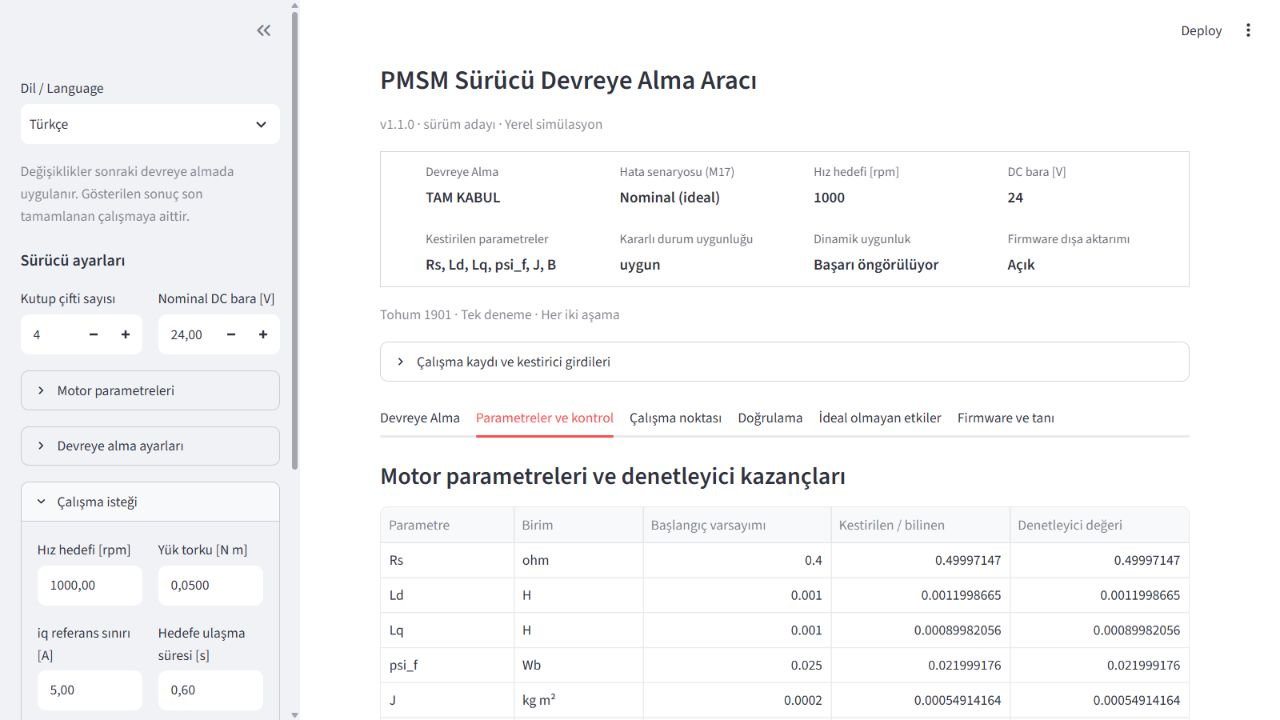
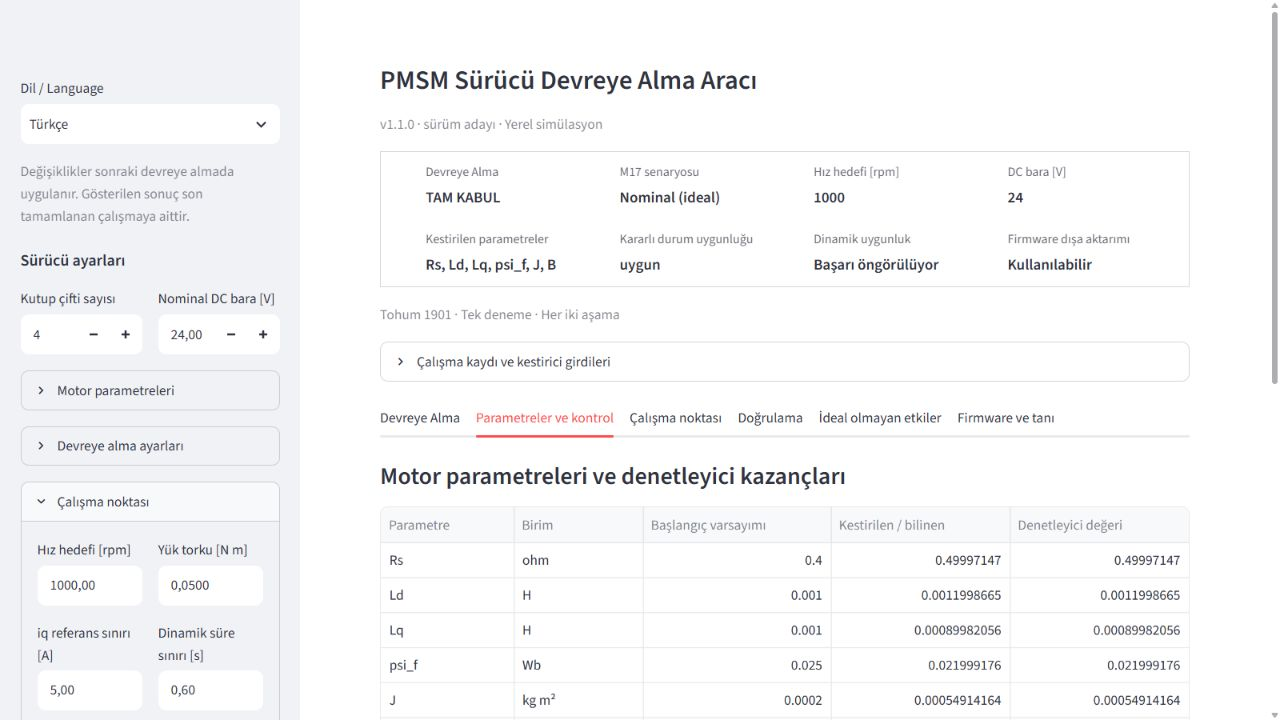
Use minimal Streamlit toolbar and finalize Turkish display labels

diff --git a/app/localization.py b/app/localization.py
@@ -19,7 +19,7 @@ TR = {
     "released": "yayımlandı",
     "Run Commissioning": "Devreye Almayı Başlat",
     "Drive / scenario configuration": "Sürücü ayarları",
-    "M17 simulation preset": "Hata senaryosu (M17)",
+    "M17 simulation preset": "M17 senaryosu",
     "Commissioning mode": "Devreye alma yöntemi",
     "Impairment exposure": "Hatanın uygulandığı aşama",
     "Deterministic seed": "Rastgelelik tohumu",
@@ -28,7 +28,7 @@ TR = {
     "Speed target [rpm]": "Hız hedefi [rpm]",
     "External operating load [N m]": "Yük torku [N m]",
     "Operating iq reference limit [A]": "iq referans sınırı [A]",
-    "Dynamic deadline [s]": "Hedefe ulaşma süresi [s]",
+    "Dynamic deadline [s]": "Dinamik süre sınırı [s]",
     "Required dynamic hold [s]": "Hız bandında kalma süresi [s]",
     "Simulation evaluation / ground truth — plant configuration": "Gerçek motor parametreleri (simülasyon)",
     "Simulator inputs only. Estimators receive sampled records, not these constants.": "Yalnızca simülasyon için. Kestirici bu değerlere erişmez.",
@@ -299,17 +299,17 @@ TR = {
     "pole_pairs": "Kutup çifti sayısı",
     "Motor parameters": "Motor parametreleri",
     "Commissioning setup": "Devreye alma ayarları",
-    "Operating request": "Çalışma isteği",
+    "Operating request": "Çalışma noktası",
     "Validation timing": "Doğrulama zamanlaması",
-    "Simulation errors": "Simülasyon hataları",
+    "Simulation errors": "İdeal olmayan etkiler",
     "Identified parameters": "Kestirilen parametreler",
     "Estimates / prior retained": "Kestirimler / başlangıç korundu",
     "DC bus [V]": "DC bara [V]",
     "Steady-state feasibility": "Kararlı durum uygunluğu",
     "Dynamic feasibility": "Dinamik uygunluk",
     "Firmware export": "Firmware dışa aktarımı",
-    "Available": "Açık",
-    "Blocked": "Kapalı",
+    "Available": "Kullanılabilir",
+    "Blocked": "Engellendi",
     "Predicted success": "Başarı öngörülüyor",
     "Predicted failure": "Başarısızlık öngörülüyor",
     "Run summary": "Çalışma özeti",

diff --git a/tests/test_localization.py b/tests/test_localization.py
@@ -21,6 +21,10 @@ def default_language():
 
 
 def test_default_turkish_and_english_catalogue():
+    from app.__main__ import launch_command
+    from app.portable import launch_settings
+    assert "--client.toolbarMode=minimal" in launch_command()
+    assert launch_settings({})["client.toolbarMode"] == "minimal"
     assert DEFAULT_LANGUAGE == "tr" and set(LANGUAGES) == {"tr", "en"}
     assert t("Run Commissioning") == "Devreye Almayı Başlat"
     assert t("Commissioning") == "Devreye Alma"
@@ -52,6 +56,17 @@ def test_canonical_terms_match_glossary():
         set_language("en")
         assert t(english) == english
         assert english.lower() in glossary.lower()
+    set_language("tr")
+    for message, label in {
+        "Operating request": "Çalışma noktası",
+        "Dynamic deadline [s]": "Dinamik süre sınırı [s]",
+        "Available": "Kullanılabilir",
+        "Blocked": "Engellendi",
+        "M17 simulation preset": "M17 senaryosu",
+        "Simulation errors": "İdeal olmayan etkiler",
+    }.items():
+        assert t(message) == label
+        assert message in glossary and label in glossary
     readme_tr = (ROOT/"README.md").read_text(encoding="utf-8")
     readme_en = (ROOT/"README.en.md").read_text(encoding="utf-8")
     assert "PMSM Sürücü Devreye Alma ve Parametre Kestirimi" in readme_tr
@@ -110,6 +125,8 @@ def test_plot_translation_does_not_change_numeric_artists_or_result():
 def test_language_switch_preserves_widgets_results_and_export():
     from streamlit.testing.v1 import AppTest
     app = AppTest.from_file(str(ROOT/"app/dashboard.py"), default_timeout=60).run()
+    from streamlit import get_option
+    assert get_option("client.toolbarMode") == "minimal"
     assert not app.exception and app.selectbox(key="language").value == "tr"
     assert app.button(key="run_commissioning").label == "Devreye Almayı Başlat"
     app.number_input(key="seed").set_value(1909)

diff --git a/app/portable.py b/app/portable.py
@@ -18,7 +18,8 @@ def launch_settings(environment):
         raise ValueError("PMSM_PORT must be between 1 and 65535")
     return {"server.address": "127.0.0.1", "server.port": port,
             "server.headless": headless == "1", "browser.gatherUsageStats": False,
-            "global.developmentMode": False, "server.fileWatcherType": "none"}
+            "global.developmentMode": False, "server.fileWatcherType": "none",
+            "client.toolbarMode": "minimal"}
 
 
 def configure_streamlit(settings):

diff --git a/app/__main__.py b/app/__main__.py
@@ -8,7 +8,8 @@ import sys
 def launch_command(arguments=()):
     script = Path(__file__).resolve().with_name("dashboard.py")
     return [sys.executable, "-m", "streamlit", "run", str(script),
-        "--server.address=127.0.0.1", "--browser.gatherUsageStats=false", *arguments]
+        "--server.address=127.0.0.1", "--browser.gatherUsageStats=false",
+        "--client.toolbarMode=minimal", *arguments]
 
 
 def main():

diff --git a/app/dashboard.py b/app/dashboard.py
@@ -213,6 +213,7 @@ def _refresh_display_labels():
 
 
 def main():
+    st.set_option("client.toolbarMode", "minimal")
     set_language(st.session_state.get("language", DEFAULT_LANGUAGE))
     st.set_page_config(page_title=t("PMSM engineering application"), layout="wide")
     st.sidebar.selectbox("Dil / Language", list(LANGUAGES), format_func=LANGUAGES.__getitem__, key="language", on_change=_refresh_display_labels)

diff --git a/docs/terminology.md b/docs/terminology.md
@@ -11,6 +11,12 @@ Use **PMSM Sürücü Devreye Alma Aracı** in Turkish and
 | Parameter estimation / Parameter identification | Parametre kestirimi | Numerical estimation of motor parameters; use one term throughout the UI |
 | Drive setup | Sürücü ayarları | Configuration, not a new controller design |
 | Operating point | Çalışma noktası | Speed and load request |
+| Operating request | Çalışma noktası | Sidebar input group; internal message identifier retained |
+| Dynamic deadline [s] | Dinamik süre sınırı [s] | Existing M16 request deadline, in seconds |
+| Available | Kullanılabilir | Firmware export availability |
+| Blocked | Engellendi | Firmware export blocked by rejection |
+| M17 simulation preset | M17 senaryosu | Existing M17 scenario selection; scenario codes unchanged |
+| Simulation errors | İdeal olmayan etkiler | Sidebar group for existing M17 error models |
 | Steady-state | Kararlı durum | M14 equilibrium model |
 | Steady-state feasibility | Kararlı durum uygunluğu | Current/voltage requirements at equilibrium |
 | Dynamic feasibility | Dinamik uygunluk | M16 deadline and hold requirement |
